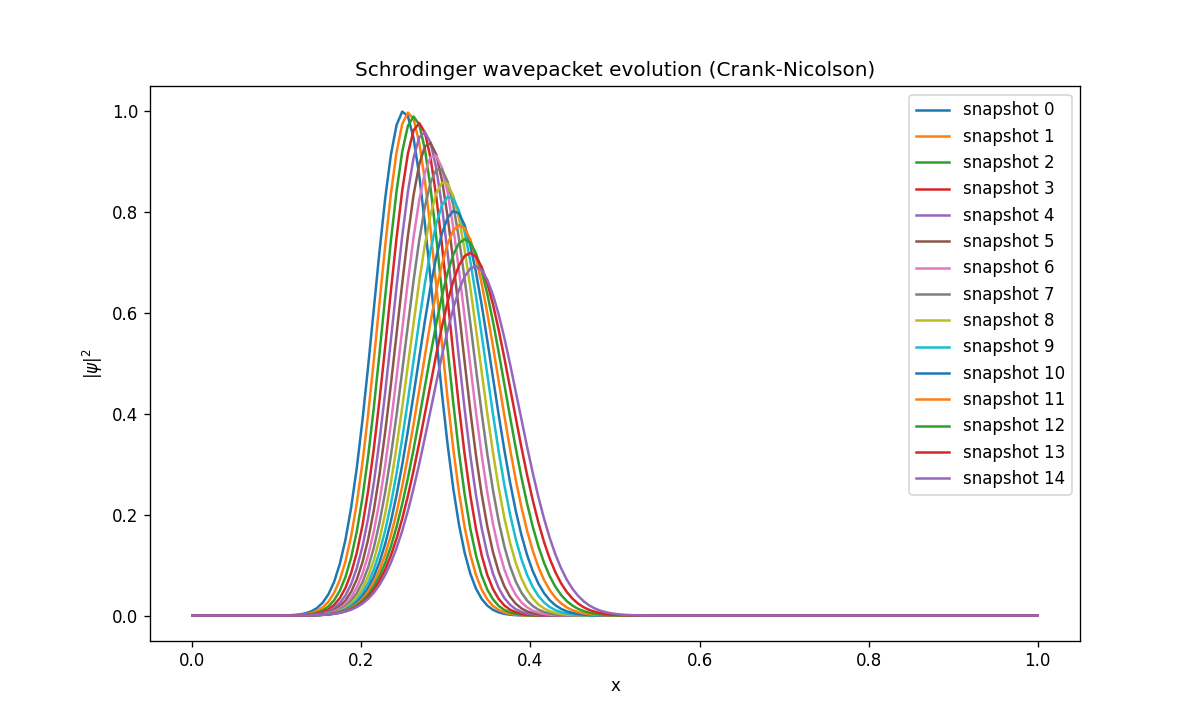
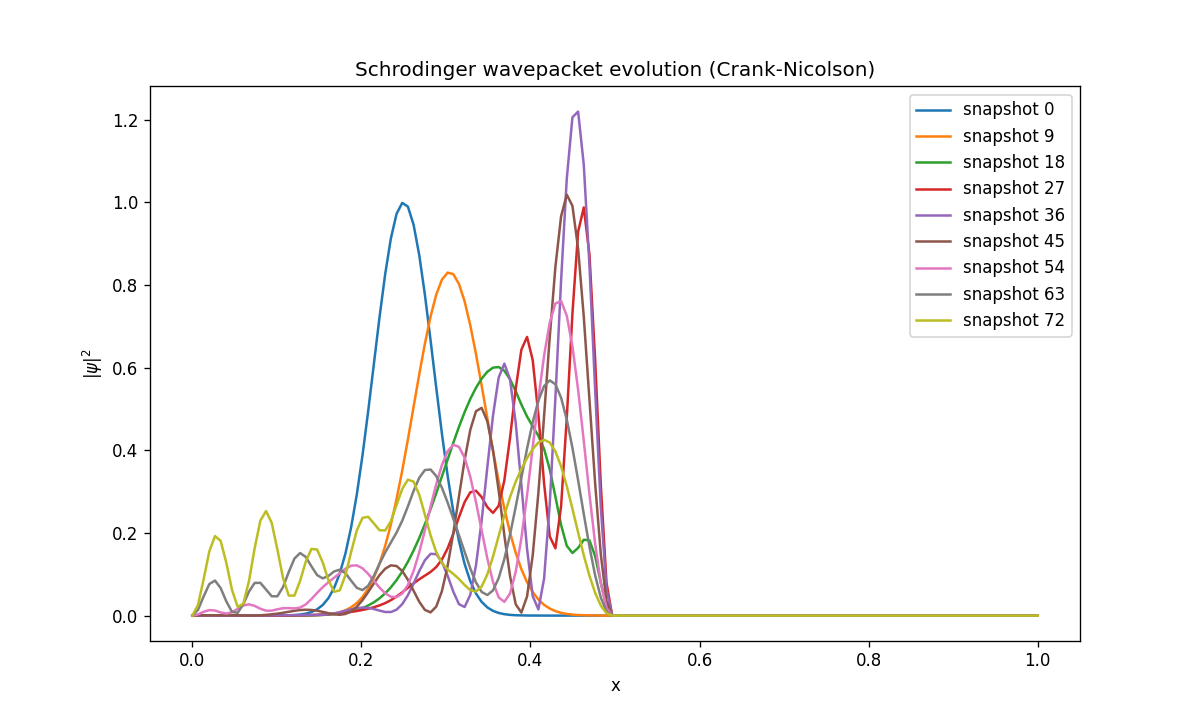
Added untracked files

diff --git a/quantum-sim/tests/plot_schrodinger.py b/quantum-sim/tests/plot_schrodinger.py
@@ -8,6 +8,15 @@ n_points = data.shape[1]
 dx = length / (n_points - 1)
 x = np.linspace(0, length, n_points)
 
+center = 0.5            # whatever you set
+width  = 0.02           # whatever you set
+barrier_right = center + width / 2.0
+
+past  = x > barrier_right
+final = data[-1]
+T = np.sum(final[past]) / np.sum(final)
+print(f"Transmission coefficient T = {T:.6e}")
+
 # --- Check 1 & 2: motion + spreading (visual) ---
 plt.figure(figsize=(10, 6))
 n_snaps = data.shape[0]